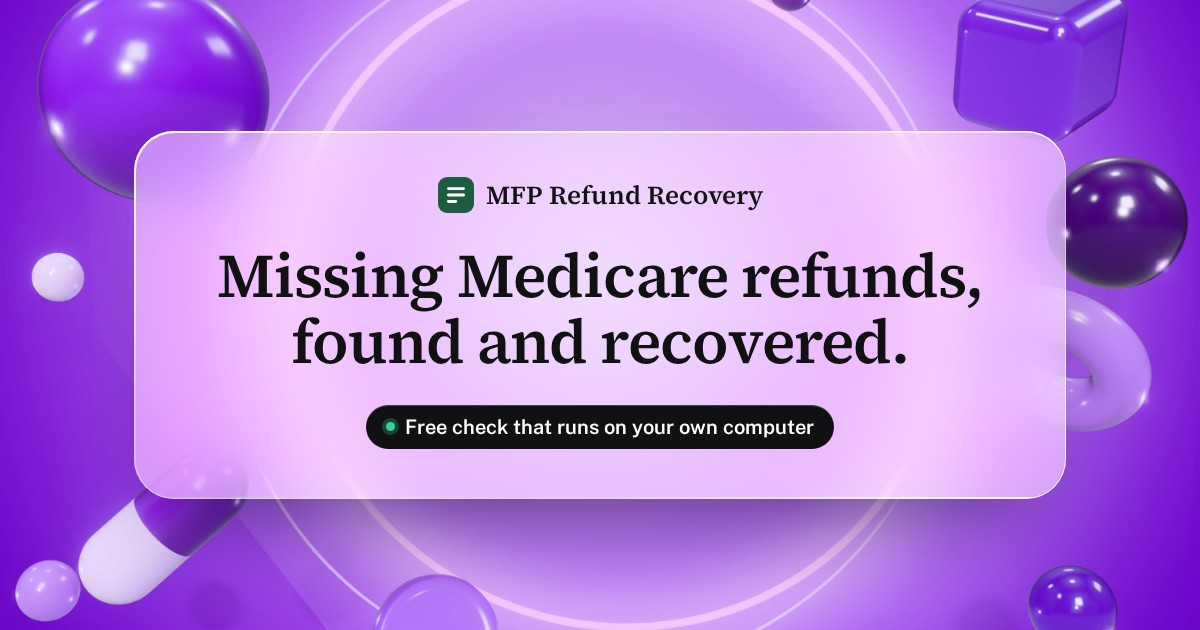
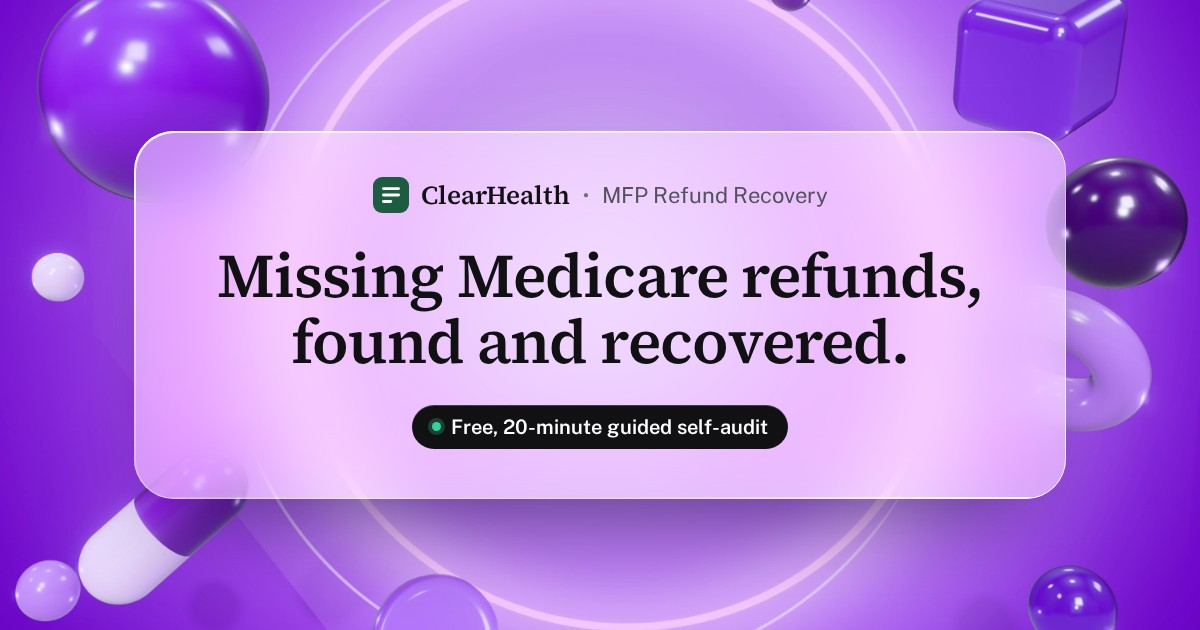
Rebrand to ClearHealth and fix copy before launch
- Fill the founder, background, contact email and site URL placeholders.
- Every "Run the free check" button becomes "Join the pilot", linking to
  hello@bachnguyenclearhealth.com. Remove the footer demo and download
  buttons and the LinkedIn icon, which pointed at placeholder links.
- ClearHealth is the company: header and footer wordmarks, page title,
  share tags, disclaimer and copyright. MFP Refund Recovery stays the
  product name, now also in the hero eyebrow and a footer line.
- Soften unverified claims: the stage reads "In development", and the
  free offer is described as a 20-minute guided self-audit instead of a
  shipped checker. The screenshot is captioned as an early look.
- Regenerate og-image.jpg with the ClearHealth wordmark.

Sources and citations are unchanged; their [URL] placeholders remain.

Claude-Session: https://claude.ai/code/session_01VDQfz1oDnZ7VBZJZpAwKkH

Changed region(s): [[0.3083, 0.6333, 0.7092, 0.7238], [0.3083, 0.2714, 0.7092, 0.3619]]

diff --git a/site/index.html b/site/index.html
@@ -5,16 +5,16 @@
 <meta charset="utf-8">
 <meta name="viewport" content="width=device-width, initial-scale=1">
 <meta name="referrer" content="no-referrer">
-<title>MFP Refund Recovery · Refunds owed to independent pharmacies</title>
+<title>ClearHealth — MFP Refund Recovery for independent pharmacies</title>
 <meta name="description" content="Drugmakers owe independent pharmacies Medicare drug-price refunds. We find the missing ones for free, then recover them for 25% of what comes back.">
-<link rel="canonical" href="[SITE URL]">
+<link rel="canonical" href="https://bachnguyenclearhealth.com">
 <meta property="og:type" content="website">
-<meta property="og:site_name" content="MFP Refund Recovery">
-<meta property="og:title" content="MFP Refund Recovery">
+<meta property="og:site_name" content="ClearHealth">
+<meta property="og:title" content="ClearHealth — MFP Refund Recovery for independent pharmacies">
 <meta property="og:description" content="We find the Medicare drug refunds owed to your pharmacy for free, then recover them for 25% of what comes back. Nothing recovered, nothing owed.">
-<meta property="og:url" content="[SITE URL]">
-<meta property="og:image" content="[SITE URL]/og-image.jpg">
-<meta property="og:image:alt" content="MFP Refund Recovery: Missing Medicare refunds, found and recovered. A free check that runs on your own computer.">
+<meta property="og:url" content="https://bachnguyenclearhealth.com">
+<meta property="og:image" content="https://bachnguyenclearhealth.com/og-image.jpg">
+<meta property="og:image:alt" content="ClearHealth, MFP Refund Recovery: Missing Medicare refunds, found and recovered. A free, 20-minute guided self-audit.">
 <meta property="og:image:width" content="1200">
 <meta property="og:image:height" content="630">
 <meta name="twitter:card" content="summary_large_image">
@@ -178,7 +178,7 @@
   <div class="wrap nav-inner lg">
     <a class="brand" href="./">
       <svg class="brand-mark" viewBox="0 0 32 32" aria-hidden="true" focusable="false"><rect width="32" height="32" rx="8" fill="#1D5C40"/><rect x="8" y="9" width="16" height="2.5" rx="1.25" fill="#FFFFFF"/><rect x="8" y="14.75" width="16" height="2.5" rx="1.25" fill="#FFFFFF"/><rect x="8" y="20.5" width="9" height="2.5" rx="1.25" fill="#FFFFFF"/></svg>
-      <span>MFP Refund Recovery</span>
+      <span>ClearHealth</span>
     </a>
     <nav class="nav-links" aria-label="Main">
       <ul>
@@ -190,9 +190,9 @@
       </ul>
     </nav>
     <div class="nav-right">
-      <a class="nav-text" href="mailto:[CONTACT EMAIL]">Talk to us</a>
+      <a class="nav-text" href="mailto:hello@bachnguyenclearhealth.com">Talk to us</a>
       <a class="nav-quiet" href="#investors">Investors</a>
-      <a class="btn btn-dark btn-sm" href="[DEMO URL]">Run the free check</a>
+      <a class="btn btn-dark btn-sm" href="mailto:hello@bachnguyenclearhealth.com">Join the pilot</a>
     </div>
     <details class="menu">
       <summary aria-label="Menu"><svg class="icon" aria-hidden="true"><use href="#i-menu"/></svg></summary>
@@ -203,7 +203,7 @@
         <a href="#data-handling">Data handling</a>
         <a href="#investors">Investors</a>
         <a href="#faq">FAQ</a>
-        <a class="btn btn-dark" href="[DEMO URL]">Run the free check</a>
+        <a class="btn btn-dark" href="mailto:hello@bachnguyenclearhealth.com">Join the pilot</a>
       </nav>
     </details>
   </div>
@@ -214,12 +214,12 @@
   <!-- Hero -->
   <section class="hero" aria-labelledby="hero-title">
     <div class="wrap hero-inner">
-      <p class="eyebrow">For independent pharmacies</p>
+      <p class="eyebrow">MFP Refund Recovery · For independent pharmacies</p>
       <h1 id="hero-title">Missing Medicare refunds, found and recovered.</h1>
-      <p class="hero-sub">Since January 1, 2026, drugmakers owe your pharmacy a refund on every eligible fill of 10 Medicare drugs, and some come back denied, short or late.<sup class="fn"><a href="#src-1" id="ref-1" aria-label="Source 1">1</a></sup> We find them for free on your own computer, then recover them for 25% of what comes back.</p>
+      <p class="hero-sub">Since January 1, 2026, drugmakers owe your pharmacy a refund on every eligible fill of 10 Medicare drugs, and some come back denied, short or late.<sup class="fn"><a href="#src-1" id="ref-1" aria-label="Source 1">1</a></sup> We help you find them in a free, 20-minute guided self-audit on your own computer, then recover them for 25% of what comes back.</p>
       <div class="actions actions-center">
-        <a class="btn btn-dark" href="[DEMO URL]">Run the free check</a>
-        <a class="btn btn-outline" href="mailto:[CONTACT EMAIL]">Talk to us</a>
+        <a class="btn btn-dark" href="mailto:hello@bachnguyenclearhealth.com">Join the pilot</a>
+        <a class="btn btn-outline" href="mailto:hello@bachnguyenclearhealth.com">Talk to us</a>
       </div>
     </div>
   </section>
@@ -241,7 +241,7 @@
   </div>
 
   <!-- Product screenshot -->
-  <section class="product" aria-label="MFP Refund Check, the free check">
+  <section class="product" aria-label="An early look at the self-audit, in development">
     <div class="stage3d">
       <img class="stage3d-art" src="img/stage-1440.webp" srcset="img/stage-1440.webp 1440w, img/stage-2880.webp 2880w" sizes="(min-width: 1392px) 1360px, calc(100vw - 32px)" width="1440" height="810" decoding="async" alt="">
       <figure class="browser lg">
@@ -252,7 +252,7 @@
           <span class="shot-chip"><svg class="icon" aria-hidden="true"><use href="#i-wifi-off"/></svg>Offline</span>
         </div>
         <div class="shot-media">
-          <a class="shot-zoom" href="img/product-check-2240.webp" aria-label="Open the full-size screenshot"><img src="img/product-check-1120.webp" srcset="img/product-check-1120.webp 1120w, img/product-check-2240.webp 2240w" sizes="(min-width: 1392px) 1060px, calc(100vw - 80px)" width="1120" height="794" decoding="async" alt="MFP Refund Check with synthetic demo data. Summary cards show $2,240.08 still inside the dispute window. Below, an action queue lists claims by days left, with N907 340B flags marked as strong dispute candidates."></a>
+          <a class="shot-zoom" href="img/product-check-2240.webp" aria-label="Open the full-size screenshot"><img src="img/product-check-1120.webp" srcset="img/product-check-1120.webp 1120w, img/product-check-2240.webp 2240w" sizes="(min-width: 1392px) 1060px, calc(100vw - 80px)" width="1120" height="794" decoding="async" alt="An in-development view of the self-audit, with synthetic demo data. Summary cards show $2,240.08 still inside the dispute window. Below, an action queue lists claims by days left, with N907 340B flags marked as strong dispute candidates."></a>
           <ul class="notes" aria-label="Callouts">
             <li class="note note-green n-offline">Runs offline</li>
             <li class="note note-blue n-file">Ready to file</li>
@@ -265,7 +265,7 @@
       </figure>
     </div>
     <div class="wrap">
-      <p class="shot-caption">The free check, shown with synthetic demo data. It opens as a file in your browser: patient names stay hidden by default, and nothing leaves the computer it runs on.</p>
+      <p class="shot-caption">An early look at the self-audit we are developing, shown with synthetic demo data. It is designed so patient names stay hidden by default and nothing leaves your computer.</p>
     </div>
   </section>
 
@@ -301,9 +301,9 @@
           </div>
 
           <div class="panel panel-1">
-            <p class="panel-label">Free check · totals only</p>
+            <p class="panel-label">Self-audit · totals only</p>
             <dl class="kv">
-              <div><dt>Claims read</dt><dd class="mono">12</dd></div>
+              <div><dt>Claims reviewed</dt><dd class="mono">12</dd></div>
               <div><dt>Expected refunds (SDRA)</dt><dd class="mono">$3,863.82</dd></div>
               <div><dt>Paid</dt><dd class="mono">$959.99</dd></div>
               <div class="kv-good"><dt>Still inside the window</dt><dd class="mono">$2,240.08</dd></div>
@@ -350,13 +350,13 @@
         <h2 id="how-title">From a payment file to a paid refund</h2>
         <p class="section-sub">Four steps. You pay only when a refund actually arrives.</p>
         <div class="step-list" role="radiogroup" aria-label="Steps">
-          <label for="step-1" class="step step-1"><span class="step-num">01</span>Run the free check</label>
+          <label for="step-1" class="step step-1"><span class="step-num">01</span>Do the free guided self-audit</label>
           <label for="step-2" class="step step-2"><span class="step-num">02</span>Sign the agreement and BAA</label>
           <label for="step-3" class="step step-3"><span class="step-num">03</span>Add us as a user on your MTF account</label>
           <label for="step-4" class="step step-4"><span class="step-num">04</span>We file and follow up</label>
         </div>
         <div class="step-texts">
-          <p class="step-text text-1">A 20-minute self-audit on your own computer. MFP Refund Check reads your MTF 835 payment files and shows expected refunds against payments, dollars by denial code and the days left on each claim. We see only the totals.</p>
+          <p class="step-text text-1">A 20-minute guided self-audit on your own computer. We walk you through your MTF 835 payment files to compare expected refunds against payments, the dollars behind each denial code and the days left on each claim. We see only the totals.</p>
           <p class="step-text text-2">A one-page services agreement and a business associate agreement (BAA), the HIPAA contract you sign before an outside helper may see patient data. Nothing patient-level reaches us before both are signed.</p>
           <p class="step-text text-3">You add us as a user on your Medicare Transaction Facilitator (MTF) account. We never ask for your password. We sort open claims by days left, then by dollars, and check each N907 against HRSA’s public 340B database (OPAIS).</p>
           <p class="step-text text-4">We file good-faith inquiries (GFIs) in Beacon, the system drugmakers use, and answer their requests. With complete documents, drugmakers resolve GFIs in 3 to 10 days.<sup class="fn"><a href="#src-5" aria-label="Source 5">5</a></sup> When a refund lands on a later 835, we invoice 25% of it.</p>
@@ -372,7 +372,7 @@
         <div>
           <p class="eyebrow">What we catch</p>
           <h2 id="catch-title">Every way a refund goes missing</h2>
-          <p class="section-sub">The free check flags each one on its own. Once you hire us, we follow it through.</p>
+          <p class="section-sub">The guided self-audit looks for each one. Once you hire us, we follow it through.</p>
         </div>
         <div class="carousel-nav" hidden>
           <button class="round-btn" type="button" data-dir="-1" aria-label="Previous cards" aria-controls="catch-track"><svg class="icon" aria-hidden="true"><use href="#i-arrow-l"/></svg></button>
@@ -456,11 +456,11 @@
   <section class="dark bento-band" aria-labelledby="bento-title">
     <div class="wrap">
       <div class="band-head">
-        <p class="eyebrow eyebrow-dark">The free check</p>
-        <h2 id="bento-title">Built for how MTF money actually moves</h2>
-        <p class="section-sub">Everything here runs in your browser, on your own computer. Nothing is uploaded.</p>
+        <p class="eyebrow eyebrow-dark">The self-audit</p>
+        <h2 id="bento-title">Designed for how MTF money actually moves</h2>
+        <p class="section-sub">What the guided self-audit looks at, shown in mockups. It is designed to run on your own computer, with nothing uploaded.</p>
         <div class="actions actions-center">
-          <a class="btn btn-light" href="[DEMO URL]">Run the free check</a>
+          <a class="btn btn-light" href="mailto:hello@bachnguyenclearhealth.com">Join the pilot</a>
           <a class="btn btn-ghost" href="#pricing">See pricing</a>
         </div>
       </div>
@@ -519,7 +519,7 @@
         </article>
 
         <article class="bento-card">
-          <h3>Exports you control</h3>
+          <h3>What you take away</h3>
           <p>A GFI worksheet for you. A de-identified summary for us.</p>
           <div class="mock mock-exports" aria-hidden="true">
             <div class="me-btn"><svg class="icon" aria-hidden="true"><use href="#i-download"/></svg><span><strong>GFI worksheet (CSV)</strong><small>Contains patient data · stays with you</small></span></div>
@@ -539,8 +539,8 @@
         <h2 id="control-title">You set the boundaries. You see every dispute.</h2>
         <p class="section-sub">Patient data stays on your computer until you sign a BAA. After that, you decide what we can see, and every claim we work is on your Recovery Report.</p>
         <div class="actions actions-center">
-          <a class="btn btn-dark" href="[DEMO URL]">Run the free check</a>
-          <a class="btn btn-outline" href="mailto:[CONTACT EMAIL]">Talk to us</a>
+          <a class="btn btn-dark" href="mailto:hello@bachnguyenclearhealth.com">Join the pilot</a>
+          <a class="btn btn-outline" href="mailto:hello@bachnguyenclearhealth.com">Talk to us</a>
         </div>
       </div>
 
@@ -554,7 +554,7 @@
         </div>
         <div class="win win-scope lg">
           <p class="win-title"><svg class="icon" aria-hidden="true"><use href="#i-eye-off"/></svg>What we can see</p>
-          <div class="scope-row"><span>Free check totals</span><span class="switch switch-on"><i></i></span></div>
+          <div class="scope-row"><span>Self-audit totals</span><span class="switch switch-on"><i></i></span></div>
           <div class="scope-row"><span>Claim lines</span><span class="tag">After BAA</span></div>
           <div class="scope-row"><span>Patient names</span><span class="tag">Hidden by default</span></div>
           <div class="scope-row"><span>Consumer AI tools</span><span class="tag tag-no">Never</span></div>
@@ -603,16 +603,16 @@
       </div>
       <div class="plans">
         <article class="plan">
-          <h3>Free check</h3>
+          <h3>Free self-audit</h3>
           <p class="plan-price"><span class="mono">Free</span></p>
-          <p class="plan-desc">A 20-minute self-audit on your own computer.</p>
+          <p class="plan-desc">A 20-minute guided self-audit on your own computer.</p>
           <ul class="ticks">
             <li>Expected refunds against payments</li>
             <li>Dollars behind each denial code</li>
             <li>Days left on every claim</li>
             <li>We see totals only, never claim lines</li>
           </ul>
-          <a class="btn btn-outline btn-block" href="[DEMO URL]">Run the free check</a>
+          <a class="btn btn-outline btn-block" href="mailto:hello@bachnguyenclearhealth.com">Join the pilot</a>
         </article>
         <article class="plan plan-main">
           <div class="plan-head"><h3>Recovery</h3><p class="plan-flag">No recovery, no fee</p></div>
@@ -624,7 +624,7 @@
             <li>Payment confirmed on your next 835</li>
             <li>One-page Recovery Report on day 90</li>
           </ul>
-          <a class="btn btn-dark btn-block" href="mailto:[CONTACT EMAIL]">Talk to us</a>
+          <a class="btn btn-dark btn-block" href="mailto:hello@bachnguyenclearhealth.com">Talk to us</a>
         </article>
         <article class="plan">
           <h3>MFP Guard</h3>
@@ -634,7 +634,7 @@
             <li>Ongoing monitoring so no refund runs out of time</li>
             <li>A one-page report every month</li>
           </ul>
-          <a class="btn btn-outline btn-block" href="mailto:[CONTACT EMAIL]">Talk to us</a>
+          <a class="btn btn-outline btn-block" href="mailto:hello@bachnguyenclearhealth.com">Talk to us</a>
         </article>
       </div>
       <p class="fine">The fee applies only to refunds actually paid on claims we disputed. You own your data. Either side can end the agreement with 30 days’ notice. We don’t promise any outcome.</p>
@@ -650,11 +650,11 @@
         <p class="section-sub">A short, factual summary. Ask us for the detail behind any line.</p>
       </div>
       <dl class="facts">
-        <div><dt>Stage</dt><dd>Working prototype. MFP Refund Check passes 24 of 24 built-in self-tests. We are now inviting our first pilot pharmacies.</dd></div>
+        <div><dt>Stage</dt><dd>In development. Now inviting our first pilot pharmacies.</dd></div>
         <div><dt>Model</dt><dd>Recovery on contingency at 25% of refunds actually paid, then MFP Guard, a monthly retainer from $199.</dd></div>
         <div><dt>What compounds</dt><dd>Every dispute is logged by drugmaker, drug, code, evidence and outcome. Over time, that record shows which claims win and what proof wins them.</dd></div>
-        <div><dt>Team</dt><dd>Founded by <span class="ph">[FOUNDER NAME]</span>, <span class="ph">[ONE-LINE BACKGROUND]</span>.</dd></div>
-        <div><dt>Contact</dt><dd><span class="ph">[CONTACT EMAIL]</span></dd></div>
+        <div><dt>Team</dt><dd>Founded by Bach, a student at Cal State Long Beach.</dd></div>
+        <div><dt>Contact</dt><dd><a href="mailto:hello@bachnguyenclearhealth.com">hello@bachnguyenclearhealth.com</a></dd></div>
       </dl>
     </div>
   </section>
@@ -672,8 +672,8 @@
           <p>No. You add us as a user on your MTF account, so we never ask for or use your password.</p>
         </details>
         <details>
-          <summary>What do you see during the free check?</summary>
-          <p>Only totals. The check runs on your computer and the claim lines stay there. It can also export a de-identified summary, which is safe to share before a BAA.</p>
+          <summary>What do you see during the free self-audit?</summary>
+          <p>Only totals. The self-audit happens on your computer and the claim lines stay there. You can also share a de-identified summary, which is safe to share before a BAA.</p>
         </details>
         <details>
           <summary>What if nothing is recovered?</summary>
@@ -681,11 +681,11 @@
         </details>
         <details>
           <summary>Is this a government program?</summary>
-          <p>No. MFP Refund Recovery is an independent company. We are not affiliated with CMS or the Medicare Transaction Facilitator.</p>
+          <p>No. ClearHealth is an independent company. We are not affiliated with CMS or the Medicare Transaction Facilitator.</p>
         </details>
         <details>
           <summary>We have 340B contracts. Does this still help?</summary>
-          <p>An N907 denial may be correct for your pharmacy. Short pays (N909 and N910), clawbacks and late refunds still count, and the free check shows all of them.</p>
+          <p>An N907 denial may be correct for your pharmacy. Short pays (N909 and N910), clawbacks and late refunds still count, and the self-audit looks for all of them.</p>
         </details>
         <details>
           <summary>Doesn’t my PSAO already do this?</summary>
@@ -714,8 +714,8 @@
     <div class="wrap closing-inner">
       <h2 id="closing-title">Find out what you’re owed.<br>It takes <span class="keep">about 20 minutes.</span></h2>
       <div class="actions actions-center">
-        <a class="btn btn-light" href="[DEMO URL]">Run the free check</a>
-        <a class="btn btn-ghost" href="mailto:[CONTACT EMAIL]">Talk to us</a>
+        <a class="btn btn-light" href="mailto:hello@bachnguyenclearhealth.com">Join the pilot</a>
+        <a class="btn btn-ghost" href="mailto:hello@bachnguyenclearhealth.com">Talk to us</a>
       </div>
     </div>
   </section>
@@ -728,7 +728,7 @@
       <div class="footer-brand">
         <a class="brand brand-dark" href="./">
           <svg class="brand-mark" viewBox="0 0 32 32" aria-hidden="true" focusable="false"><rect width="32" height="32" rx="8" fill="#1D5C40"/><rect x="8" y="9" width="16" height="2.5" rx="1.25" fill="#FFFFFF"/><rect x="8" y="14.75" width="16" height="2.5" rx="1.25" fill="#FFFFFF"/><rect x="8" y="20.5" width="9" height="2.5" rx="1.25" fill="#FFFFFF"/></svg>
-          <span>MFP Refund Recovery</span>
+          <span>ClearHealth</span>
         </a>
         <p>Medicare drug-price refunds, found and recovered for independent pharmacies.</p>
       </div>
@@ -736,7 +736,7 @@
         <p class="commit-label">Our commitments, not certifications</p>
         <ul>
           <li><span class="commit"><svg class="icon" aria-hidden="true"><use href="#i-lock"/></svg></span>BAA first</li>
-          <li><span class="commit"><svg class="icon" aria-hidden="true"><use href="#i-wifi-off"/></svg></span>Offline check</li>
+          <li><span class="commit"><svg class="icon" aria-hidden="true"><use href="#i-wifi-off"/></svg></span>Offline audit</li>
           <li><span class="commit"><svg class="icon" aria-hidden="true"><use href="#i-cookie"/></svg></span>No cookies</li>
           <li><span class="commit"><svg class="icon" aria-hidden="true"><use href="#i-key"/></svg></span>Two-factor</li>
         </ul>
@@ -744,13 +744,13 @@
     </div>
 
     <nav class="footer-cols" aria-label="Footer">
-      <div><p class="col-title">Product</p><ul><li><a href="#how-it-works">Free check</a></li><li><a href="#what-we-catch">MFP Refund Check</a></li><li><a href="#pricing">MFP Guard</a></li><li><a href="[DEMO URL]">Open the demo</a></li></ul></div>
+      <div><p class="col-title">Product</p><ul><li><a href="#how-it-works">Guided self-audit</a></li><li><a href="#what-we-catch">What we catch</a></li><li><a href="#pricing">MFP Guard</a></li></ul></div>
       <div><p class="col-title">What we catch</p><ul><li><a href="#what-we-catch">340B denials</a></li><li><a href="#what-we-catch">Short pays</a></li><li><a href="#what-we-catch">Clawbacks</a></li><li><a href="#what-we-catch">Late refunds</a></li></ul></div>
-      <div><p class="col-title">Pricing</p><ul><li><a href="#pricing">Free check</a></li><li><a href="#pricing">Recovery, 25%</a></li><li><a href="#pricing">MFP Guard</a></li></ul></div>
+      <div><p class="col-title">Pricing</p><ul><li><a href="#pricing">Free self-audit</a></li><li><a href="#pricing">Recovery, 25%</a></li><li><a href="#pricing">MFP Guard</a></li></ul></div>
       <div><p class="col-title">How it works</p><ul><li><a href="#how-it-works">The four steps</a></li><li><a href="#how-it-works">Recovery Report</a></li></ul></div>
       <div><p class="col-title">Data handling</p><ul><li><a href="#data-handling">BAA first</a></li><li><a href="#data-handling">Your password</a></li><li><a href="#data-handling">AI tools</a></li></ul></div>
       <div><p class="col-title">Learn</p><ul><li><a href="#stakes">The stakes</a></li><li><a href="#faq">FAQ</a></li><li><a href="#sources">Sources</a></li></ul></div>
-      <div><p class="col-title">Company</p><ul><li><a href="#investors">Investors</a></li><li><a href="mailto:[CONTACT EMAIL]">Talk to us</a></li><li><a href="#legal">Disclaimer</a></li></ul></div>
+      <div><p class="col-title">Company</p><ul><li><a href="#investors">Investors</a></li><li><a href="mailto:hello@bachnguyenclearhealth.com">Talk to us</a></li><li><a href="#legal">Disclaimer</a></li></ul></div>
     </nav>
 
     <section id="sources" class="sources" aria-labelledby="sources-title">
@@ -769,18 +769,17 @@
 
     <div class="footer-bottom">
       <div class="get">
-        <a class="btn btn-ghost btn-sm" href="[DEMO URL]"><svg class="icon" aria-hidden="true"><use href="#i-globe"/></svg>Open the demo</a>
-        <a class="btn btn-ghost btn-sm" href="[CHECKER DOWNLOAD URL]"><svg class="icon" aria-hidden="true"><use href="#i-download"/></svg>Download the offline checker</a>
+        <a class="btn btn-ghost btn-sm" href="mailto:hello@bachnguyenclearhealth.com"><svg class="icon" aria-hidden="true"><use href="#i-mail"/></svg>Join the pilot</a>
       </div>
       <div class="social">
-        <a class="round-btn round-dark" href="[LINKEDIN URL]" aria-label="MFP Refund Recovery on LinkedIn"><svg class="icon" aria-hidden="true"><use href="#i-linkedin"/></svg></a>
-        <a class="round-btn round-dark" href="mailto:[CONTACT EMAIL]" aria-label="Email us"><svg class="icon" aria-hidden="true"><use href="#i-mail"/></svg></a>
+        <a class="round-btn round-dark" href="mailto:hello@bachnguyenclearhealth.com" aria-label="Email us"><svg class="icon" aria-hidden="true"><use href="#i-mail"/></svg></a>
       </div>
     </div>
 
     <div id="legal" class="legal">
-      <p>MFP Refund Recovery is an independent company, not affiliated with or endorsed by CMS, HHS, the Medicare Transaction Facilitator or any drugmaker. Nothing here is legal advice. Results are not guaranteed. This website sets no cookies and loads nothing from third parties.</p>
-      <p>© 2026 MFP Refund Recovery</p>
+      <p>ClearHealth is an independent company, not affiliated with or endorsed by CMS, HHS, the Medicare Transaction Facilitator or any drugmaker. Nothing here is legal advice. Results are not guaranteed. This website sets no cookies and loads nothing from third parties.</p>
+      <p>MFP Refund Recovery is a product of ClearHealth.</p>
+      <p>© 2026 ClearHealth</p>
     </div>
   </div>
 </footer>
